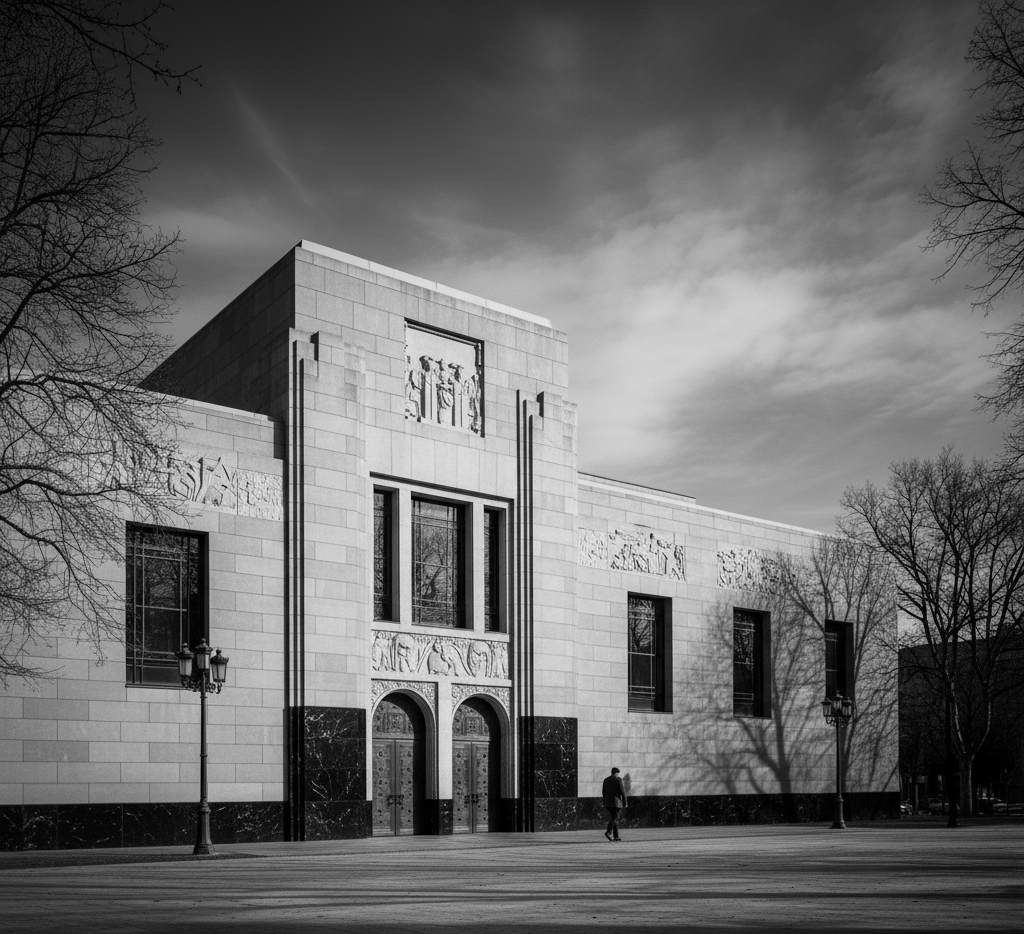
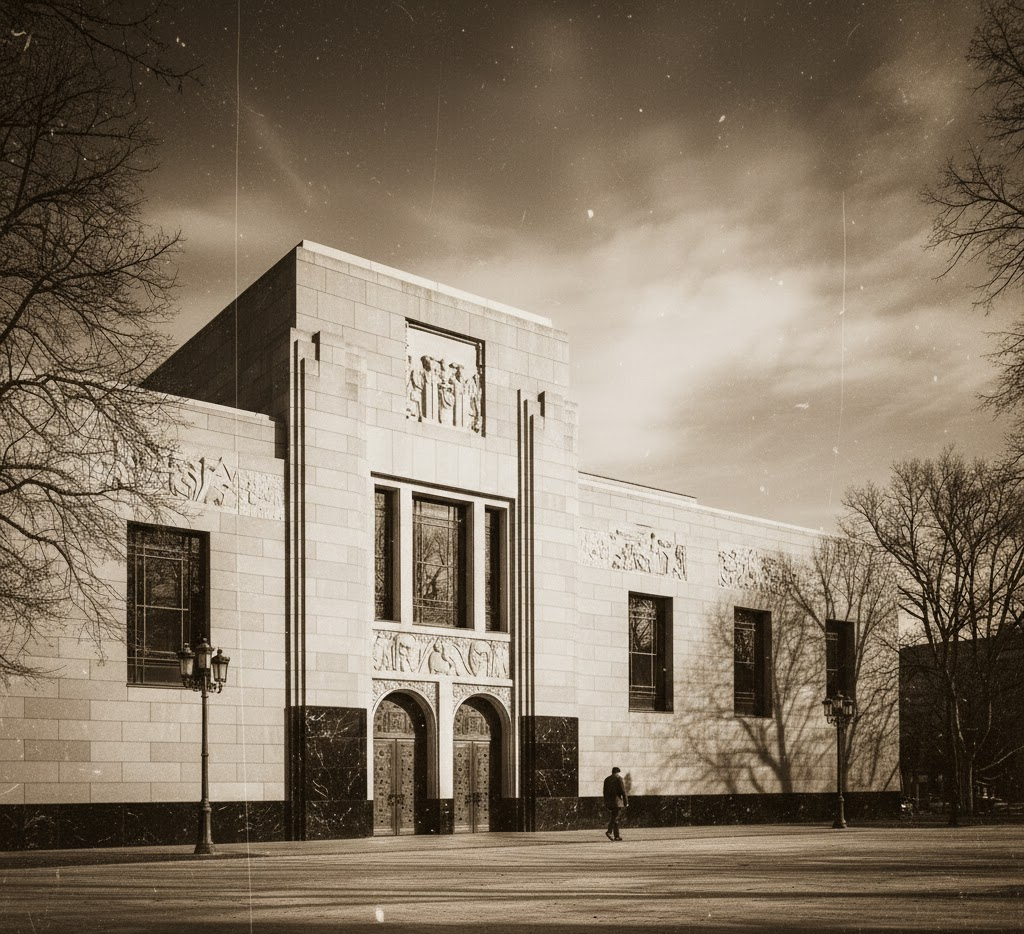
fotos museu

diff --git a/index.html b/index.html
@@ -203,7 +203,21 @@
        </section>
        <section id="Museu">
         <h2>El museu</h2>
-        <h4> Texttttt</h4>
+        
+            <div class="col-md-5">
+        <p> Texttttt</p>
+        <div class="fotomuseu1">
+     <img src="./img/fotoOld1.png" class="img-fluid" alt="Mapa de la ruta">
+            </div>
+            <div class="fotomuseu2">
+     <img src="./img/fotoOld.png" class="img-fluid" alt="Mapa de la ruta">
+            </div>
+             <div class="fotomuseu3">
+     <img src="./img/fotoNew.png" class="img-fluid" alt="Mapa de la ruta">
+            </div>
+            <div class="fotomuseu4">
+     <img src="./img/museuInt.png" class="img-fluid" alt="Mapa de la ruta">
+            </div>
        </section>
          
        

diff --git a/mmc.css b/mmc.css
@@ -220,6 +220,31 @@ nav a {
   opacity: 1;
 }
 
+.fotomuseu1 {
+  width: 75%;
+  height: auto;
+  margin-left: 12%;
+  margin-top: 50px;
+  margin-bottom: 150px; 
+}
+
+.fotomuseu2 {
+  width: 75%;
+  height: auto;
+  margin-left: 12%;
+  margin-top: 50px;
+  margin-bottom: 150px;
+  margin-left: 155%;
+}
+
+.fotomuseu3 {
+  width: 75%;
+  height: auto;
+  margin-left: 12%;
+  margin-top: 50px;
+  margin-bottom: 150px; 
+}
+
 .contacte {
     background-color: rgb(0, 0, 0);
     color: white;
